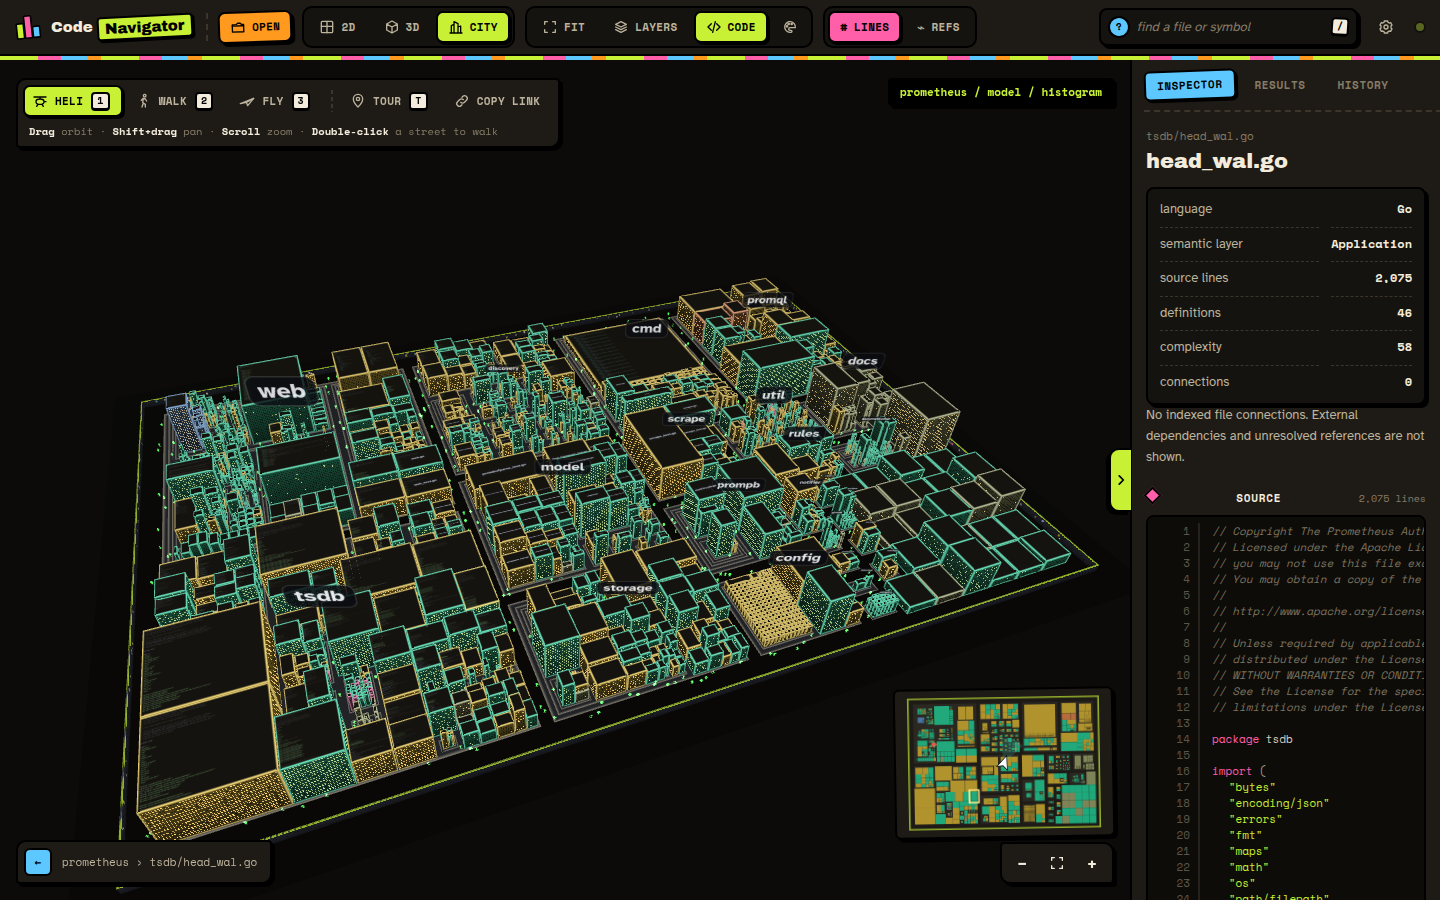
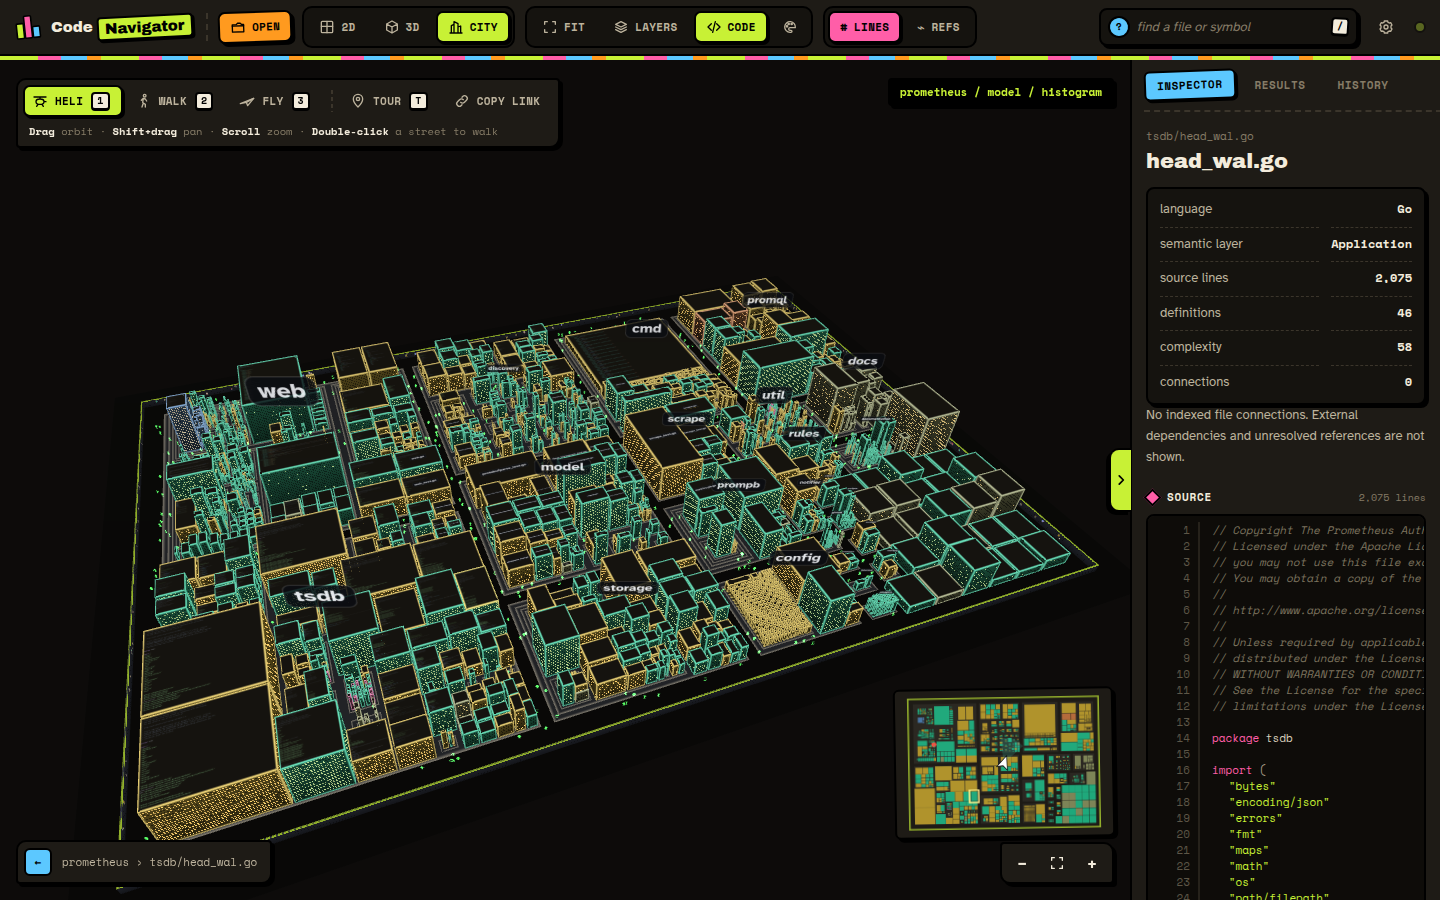
Document doors, routes and street furniture; refresh screenshots
City guide, architecture and README describe doors and back doors,
door-to-door routes along alleys, and the street furniture on folder
pavements. Documentation screenshots retaken on the current build,
including a street-level view of doorways, a streetlight and routes.

Changed region(s): [[0.0938, 0.3111, 0.75, 0.9333], [0.7812, 0.5289, 1.0, 1.0], [0.0938, 0.7778, 0.125, 0.8089]]

diff --git a/docs/ARCHITECTURE.md b/docs/ARCHITECTURE.md
@@ -77,17 +77,27 @@ Plain ES modules, no framework, no build step.
    nested pavements a few centimetres apart can't z-fight).
 2. **Buildings and wall:** instanced boxes. The city shader adds procedural windows (lit share from
    definition count), neon edges, a concrete wall and exponential fog.
-3. **Effects:** additive and never occluding. Search beacons, fire and smoke particles (stateless,
+3. **Doors and street furniture:** small instanced boxes (lit doorways, lamp posts and heads, bins,
+   benches, trees, hydrants, post boxes) drawn with a separate shader variant, and only within a few
+   hundred metres of the camera. Streetlights stand on folder boundaries, and everything sits on
+   folder pavements, never the road.
+4. **Effects:** additive and never occluding. Lamp light pools, search beacons, fire and smoke particles (stateless,
    animated in the vertex shader), residents (procedural stick-figure sprites), street routes
    (mitred ribbons with chevrons or pulsing dashes, kept in right-hand lanes) and import arcs.
-4. **Signs:** textured quads from the label atlas, depth-tested but not depth-writing. A shader test
+5. **Signs:** textured quads from the label atlas, depth-tested but not depth-writing. A shader test
    discards any quad face that would read mirrored, which is how two-faced blade signs work.
 
 ### Routing
 
-- **Grid:** a 3 m occupancy grid blocks buildings (grown by 0.5 m) and the city wall, and makes
-  pavements slightly dearer than roads.
-- **Search:** one Dijkstra run from the selected building's doors reaches every import and
+- **Grid:** a 3 m occupancy grid blocks buildings (grown by 2 m, so a ribbon in its lane can't clip a
+  wall) and the city wall, and makes pavements slightly dearer than roads.
+- **Doors:** each building gets one door, centred where possible and clear of its corners. Street
+  doors face the nearest open street. Buildings with no frontage get a back door whose path follows
+  a distance-to-street field computed once on a 0.5 m grid (chamfer sweeps until stable) through the
+  2.4 m alleys.
+- **Search:** one Dijkstra run from the selected building's doorstep reaches every import and
   dependent (paths cost the same both ways). It uses float64 distances and a settled set.
-- **Shaping:** routes are straightened by line-of-sight, extended into both buildings, and boxed-in
-  targets fall back to the nearest reachable street.
+- **Shaping:** street paths are straightened by line-of-sight (sampled every quarter cell), then joined
+  to each building's door path: inside the building, out through the doorway, along the alley, onto
+  the street. Alley points are drawn narrower and centred. Buildings with no door fall back to the
+  nearest reachable street.

diff --git a/docs/CITY.md b/docs/CITY.md
@@ -21,6 +21,9 @@ scale, so a large repository is a large city.
 | **Yellow tape** rising across the walls | Dependabot alert (on the manifest file) |
 | **Red tape** falling across the walls | Code scanning alert |
 | **Light beam** into the sky | A search result |
+| **Lit doorway** | The building's door: facing the street, or a back door onto an alley for files in the middle of a folder |
+| **Streetlights** with pools of light | The edges of each folder: lights stand on its boundary, at every corner and every 20 m or so |
+| **Bins, benches, trees, hydrants, post boxes** | Street furniture on the folder's pavement. Purely for atmosphere |
 | **Cyan chevrons** on the road | Route to a file the selected file imports (**amber** if the import was inferred) |
 | **Pulsing magenta dashes** on the road | Route from a file that imports the selected file |
 | **Arcs** in the sky | The same import relationships, as the crow flies |
@@ -48,7 +51,9 @@ the selected file's routes.
 ## Following dependencies
 
 Select a file (click it, search for it, or pick it from the sidebar). Routes appear on the streets
-to everything it imports and from everything that imports it. With a file selected, switching to
+to everything it imports and from everything that imports it. Every route leaves through the
+building's door, follows the alley to the street if it's a back door, and goes in through the other
+building's door. Alley stretches are drawn thinner. With a file selected, switching to
 **Walk** puts you at its door facing along the first route: follow the arrows.
 
 ## Tour and links

diff --git a/README.md b/README.md
@@ -16,7 +16,7 @@ indexing API and the browser frontend (plain ES modules and WebGL2, no build ste
 | ![2D map](docs/images/map-2d.png) | **2D map**: a squarified treemap of every file, sized by lines or references, with source code rendered right on the tiles as you zoom in. |
 | ![3D landscape](docs/images/landscape-3d.png) | **3D landscape**: the same map extruded, orbit, pan and dolly around it. |
 | ![Routes in the city](docs/images/city-routes.png) | **City**: folders become districts and blocks, files become buildings (footprint from lines, height from complexity, lit windows from definitions). Select a file to see its imports as cyan routes and its dependents as pulsing magenta routes along the streets. |
-| ![Walking the city](docs/images/city-walk.png) | **Walk and fly** at street level with signs on every wall, folder street signs on the corners, source code on the facade in front of you, wandering residents and a city wall covered in posters. |
+| ![Walking the city](docs/images/city-walk.png) | **Walk and fly** at street level past lit doorways, streetlights, bins, benches and trees, with signs on every wall, folder street signs on the corners, source code on the facade in front of you, wandering residents and a city wall covered in posters. |
 
 Also:
 
